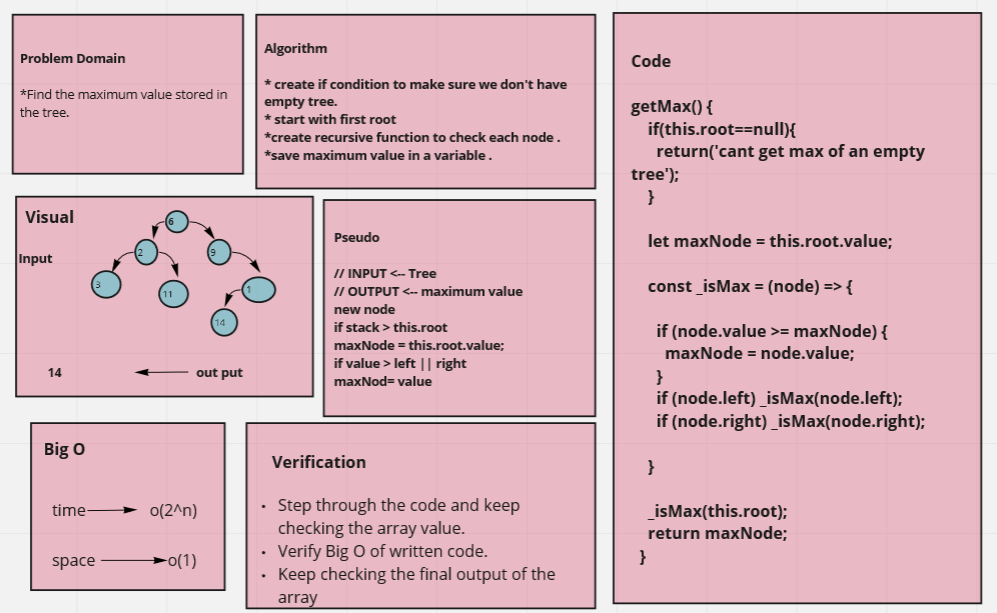
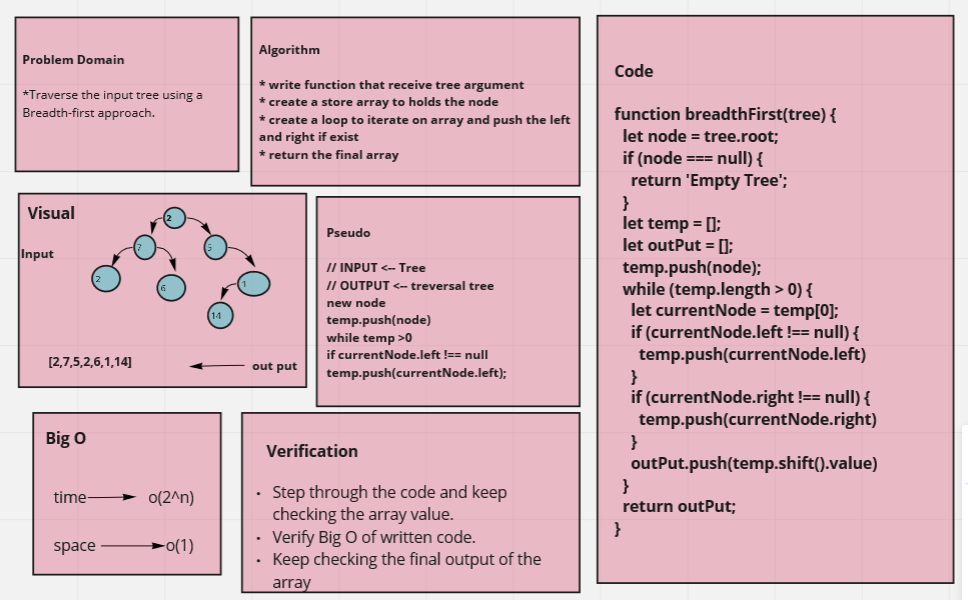
tree-breadth

Changed region(s): [[0.0, 0.0, 0.9917, 1.0]]

diff --git a/javascript/trees/trees.test.js b/javascript/trees/trees.test.js
@@ -1,6 +1,7 @@
 const Node = require('./trees').Node;
 const BinaryTree = require('./trees').BinaryTree;
 const BinarySearchTree = require('./trees').BinarySearchTree;
+const breadthFirst = require('./trees').breadthFirst;
 
 describe('tree',()=>{
 
@@ -96,6 +97,34 @@ describe('Get max node', () => {
     })
 })
 
+describe('Breadth First Traversal',()=>{
+    let tree = new BinaryTree();
+    let node1 = new Node(2);
+    let node2 = new Node(5);
+    let node3 = new Node(10);
+    let node4 = new Node(6);
+    let node5 = new Node(13);
+    let node6 = new Node(17);
+    let node7 = new Node(3);
+    let node8 = new Node(6);
+
+    tree.root = node1;
+    tree.root.left = node2;
+    tree.root.right = node3;
+    tree.root.left.left = node4;
+    tree.root.left.right = node5;
+    tree.root.right.left = node6;
+    tree.root.right.right = node7;
+    tree.root.right.right.left = node8;
+ 
+    let tree2 = new BinaryTree();
+  test('Can successfully return an array of all values in the tree, in the order they were encountered',()=>{
+      expect(breadthFirst(tree)).toEqual([2, 5, 10, 6, 13, 17, 3, 6]);
+  });
+  test('Test expected to fail on an empty tree',()=>{
+    expect(breadthFirst(tree2)).toEqual('Empty Tree');
+  });
+})
 
 
 

diff --git a/javascript/trees/trees.js b/javascript/trees/trees.js
@@ -59,8 +59,8 @@ class BinaryTree {
   }
 
   getMax() {
-    if(this.root==null){
-      return('cant get max of an empty tree');
+    if (this.root == null) {
+      return ('cant get max of an empty tree');
     }
 
     let maxNode = this.root.value;
@@ -131,9 +131,35 @@ class BinarySearchTree extends BinaryTree {
     }
   }
 
-  
+
 
 }
 
+function breadthFirst(tree) {
+  let node = tree.root;
 
-module.exports = { Node, BinarySearchTree, BinaryTree }
+  if (node === null) {
+    return 'Empty Tree';
+  }
+
+  let temp = [];
+  let outPut = [];
+  temp.push(node);
+
+  while (temp.length > 0) {
+    let currentNode = temp[0];
+    if (currentNode.left !== null) {
+      temp.push(currentNode.left)
+    }
+
+    if (currentNode.right !== null) {
+      temp.push(currentNode.right)
+    }
+    outPut.push(temp.shift().value)
+  }
+
+  return outPut;
+}
+
+
+module.exports = { Node, BinarySearchTree, BinaryTree, breadthFirst }

diff --git a/javascript/trees/README.md b/javascript/trees/README.md
@@ -5,6 +5,7 @@
 > Create a Binary Search Tree class 
 > Adds a new node with that value in the correct location in the binary search 
 > Returns: boolean indicating whether or not the value is in the tree at least 
+> Traverse the input tree using a Breadth-first approach
 
 
 ## Approach & Efficiency
@@ -14,9 +15,12 @@ Note : I worked as a group with my colleagues .
 
 ## API
 **add**: Adds a new node with that value in the correct location in the binary search 
+
 **Contains**: Returns: boolean indicating whether or not the value is in the tree at least 
+
 **getMax**: Find the maximum value stored in the tree.
 
+**breadthFirst**: list of all values in the tree, in the order they were encountered
 
 ## UML Diagrame
 
